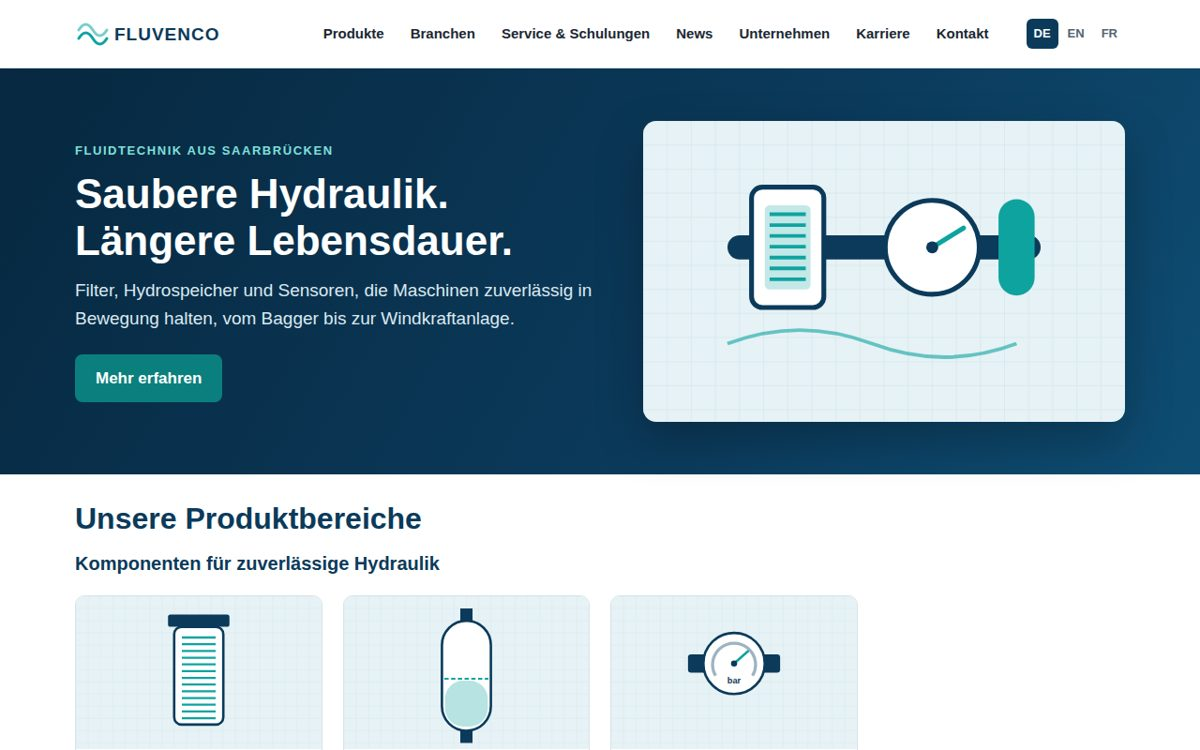
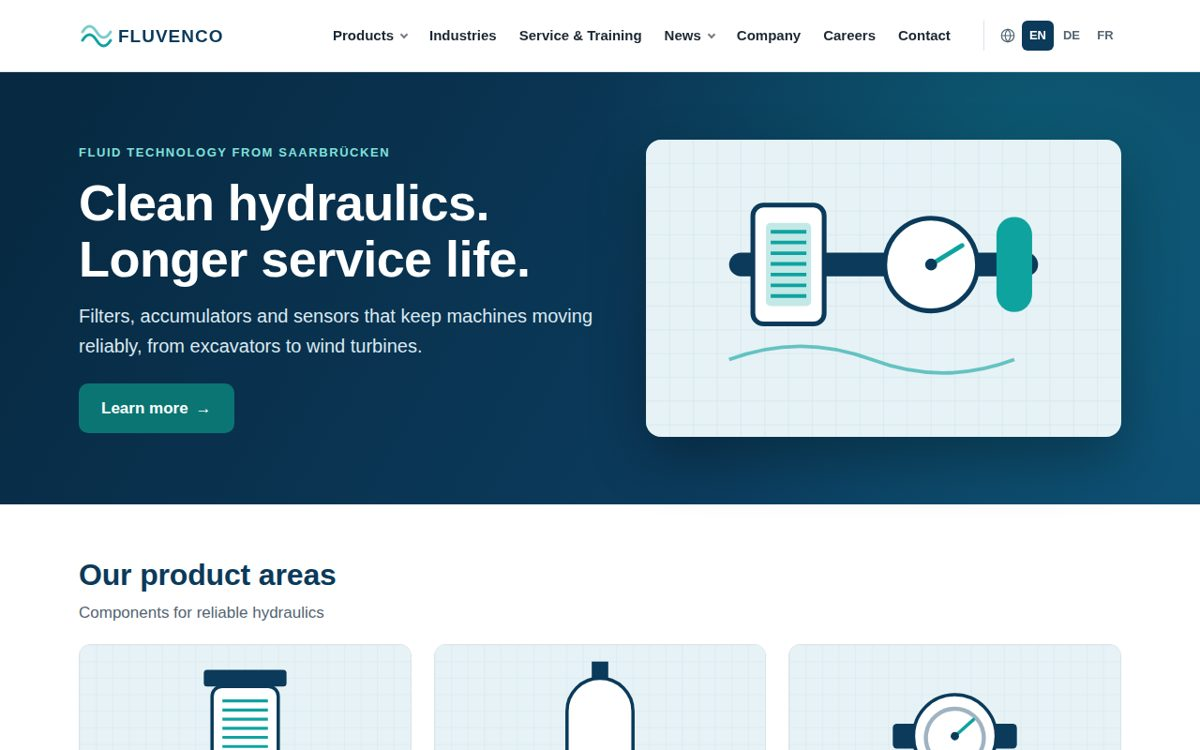
Update TYPO3 project link and thumbnail

diff --git a/index.html b/index.html
@@ -181,14 +181,14 @@ footer { text-align: center; color: var(--muted); font-size: 13px; padding: 0 0 
       <div>
         <div class="type">Website · TYPO3 CMS · Project 2026</div>
         <h3>Multilingual corporate website with TYPO3</h3>
-        <p>A website in German, English and French for Fluvenco, a fictional manufacturer of hydraulic components. Besides the site itself, the project covers the work around it: an editor guide, a translation and approval process for launching country websites, SEO and automated quality checks.</p>
+        <p>A website in English, German and French for Fluvenco, a fictional manufacturer of hydraulic components. Besides the site itself, the project covers the work around it: an editor guide, a translation and approval process for launching country websites, SEO and automated quality checks.</p>
         <ul>
           <li>Own TYPO3 13 LTS sitepackage: Fluid templates, TypoScript, site sets and two custom content elements</li>
           <li>Connected translations, localized URLs, hreflang, sitemap and editor groups per language</li>
           <li>Automated QA of all 45 pages: links, SEO tags, alt texts and WCAG 2.1 AA, with 0 issues</li>
         </ul>
         <div class="chips"><span class="chip">TYPO3 13</span><span class="chip">Fluid</span><span class="chip">TypoScript</span><span class="chip">Multilingual</span><span class="chip">SEO</span><span class="chip">Accessibility</span><span class="chip">Playwright</span></div>
-        <div class="plinks"><a href="https://sayamrina.github.io/fluvenco-typo3/site/de-de/">View website</a><a href="https://sayamrina.github.io/fluvenco-typo3/">Project page</a><a href="https://github.com/sayamrina/fluvenco-typo3">Code &amp; editor guide</a></div>
+        <div class="plinks"><a href="https://sayamrina.github.io/fluvenco-typo3/site/en/">View website</a><a href="https://sayamrina.github.io/fluvenco-typo3/">Project page</a><a href="https://github.com/sayamrina/fluvenco-typo3">Code &amp; editor guide</a></div>
       </div>
     </article>
 
